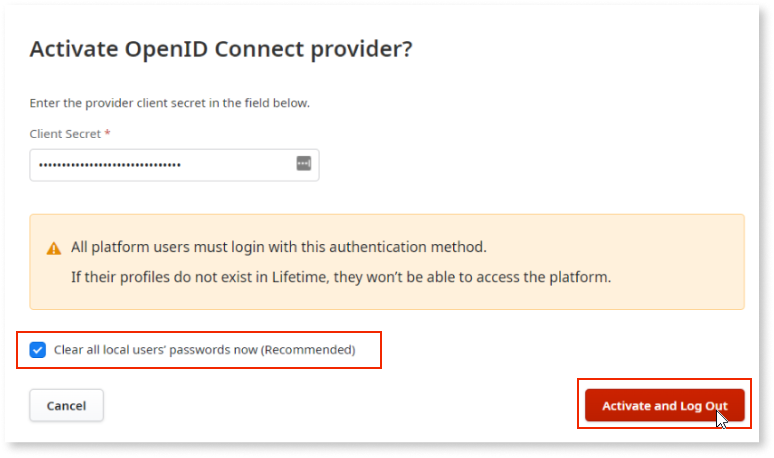
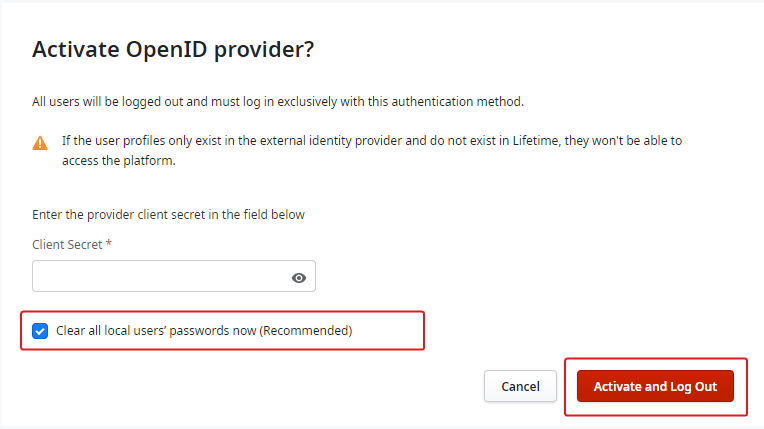
R11PST-266 update OIDC configuration in lifetime documentation-TK-12927

diff --git a/src/manage-platform-app-lifecycle/manage-it-teams/external-idp/external-idp-lifetime.md b/src/manage-platform-app-lifecycle/manage-it-teams/external-idp/external-idp-lifetime.md
@@ -28,13 +28,35 @@ To configure the external provider (OIDC) in LifeTime, follow these steps:
 
 1. Enter the following details according to the OIDC provider you are using:
 
-    1. **Name**: ID Provider
+    * **Name**: ID Provider
 
-    1. **Well-known Configuration URL**: OpenID Connect metadata document URI
+    * **Well-known Configuration URL**: OpenID Connect metadata document URI
 
-        You can validate the URL using the **Test configuration** link.
+        **Note**: Click the **Test** button to verify the well-known URL. This action will also add some recommended scopes required for OIDC connection in the future.
+
+   * **Client ID Type**: Select one of the following:
+
+        * Single Client ID for Desktop and Web tools
+
+        * Different Client ID for Desktop and Web tools
+
+            If you choose the **Use a different Client Ids for Desktop and Web tools** option, enter the following:
+
+            * **Client ID for Desktop tools**: Native Application’s Client ID
+           
+            * **Client ID for Web tools**: Web Application’s Client ID
+
+    * **Client ID**: Client ID for both desktop and web tools.
+        
+    * **Username Claim**: Claim used to match the username field of the user configured in LifeTime. By default, the claim is ``email``. For more information, see [Standard Claims](https://openid.net/specs/openid-connect-core-1_0.html#StandardClaims).
+
+        <div class="info" markdown="1">
+
+         For Azure and OKTA use ``preferred_username`` as the **Username Claim** value.
+
+         </div>
        
-    1. **Scopes**: Clicking the **Test** button after you enter the well-known configuration URL fetches all the scopes supported and enabled in the identity provider. The scopes are displayed on the **Configuration details** section. Any required scope for the user authentication process can be added and saved for the configuration.
+    * **Scopes**: Clicking the **Test** button after you enter the well-known configuration URL fetches all the scopes supported and enabled in the identity provider. The scopes are displayed on the **Configuration details** section. Any required scope for the user authentication process can be added and saved for the configuration.
   
           
        **Note:** Please follow these guidelines when selecting values for scopes:
@@ -48,7 +70,7 @@ To configure the external provider (OIDC) in LifeTime, follow these steps:
        Selecting values outside the provided list may result in errors or data inconsistencies.
        
         **Default Selected Scopes**:
-          By default, the following scopes are added for all identity providers and cannot be removed:
+          If the following scopes are supported by identity providers then they are added by default and cannot be removed:
        
         * openid
        
@@ -75,47 +97,23 @@ To configure the external provider (OIDC) in LifeTime, follow these steps:
          *   **AD FS**:
                     For AD FS, it is recommended to add the **allatclaims** scope. This scope requests the access token claims in the identity token.
 
-          **Note**: The recommended additional scopes mentioned above are not exhaustive, and users should consult their identity provider's documentation for specific scope requirements.
+        **Note**: The recommended additional scopes mentioned above are not exhaustive, and users should consult their identity provider's documentation for specific scope requirements.
+       
+        ![LifeTime authentication settings interface displaying scope configuration options for OpenID Connect](images/auth-settings-scope-lt.png "Configuring Scopes in Authentication Settings")
 
-     1. **Client ID Type**: Select one of the following:
+ 1. Click **Save Changes**.
 
-        * Single Client ID for Desktop and Web tools
-
-        * Different Client ID for Desktop and Web tools
-
-            If you choose the **Use a different Client Ids for Desktop and Web tools** option, enter the following:
-
-            * **Client ID for Desktop tools**: Native Application’s Client ID
-           
-            * **Client ID for Web tools**: Web Application’s Client ID
-
-    1. **Client ID**: Client ID for both desktop and web tools.
-        
-    1. **Username Claim**: Claim used to match the username field of the user configured in LifeTime. By default, the claim is ``email``. For more information, see [Standard Claims](https://openid.net/specs/openid-connect-core-1_0.html#StandardClaims).
-
-        <div class="info" markdown="1">
-
-         For Azure and OKTA use ``preferred_username`` as the **Username Claim** value.
-
-         </div>
-
-    ![LifeTime authentication settings interface displaying scope configuration options for OpenID Connect](images/auth-settings-scope-lt.png "Configuring Scopes in Authentication Settings")
-
-1. Click **Save Changes**.
-
-1. Click **Activate**.
+ 1. Click **Activate**.
 
     The **Activate OpenID Connect provider** pop-up is displayed. 
 
-    ![Activate OpenID Connect provider pop-up window in LifeTime](images/activate-openid-provider-lt.png "Activating OpenID Connect Provider")
+     * Enter the **Client Secret**.
 
-1. Enter the **Client Secret**.
+     * Select the **Clear all local user’s passwords now (Recommended)** checkbox.
 
-1. Select the **Clear all local user’s passwords now (Recommended)** checkbox.
+        For more information about clearing user’s passwords, see [Clearing built-in password credentials](#clearing-built-in-password-credentials).
 
-    For more information about clearing user’s passwords, see [Clearing built-in password credentials](#clearing-built-in-password-credentials).
-
-1. Click **Activate and Log Out**. 
+     * Click **Activate and Log Out**. 
 
     ![Log out confirmation dialog in LifeTime after activating OpenID Connect provider](images/log-out-lt.png "Log Out Confirmation")
 

diff --git a/src/manage-platform-app-lifecycle/manage-it-teams/external-idp/external-idp-azure.md b/src/manage-platform-app-lifecycle/manage-it-teams/external-idp/external-idp-azure.md
@@ -155,38 +155,6 @@ To configure Microsoft Azure AD authentication, follow these steps:
 
 1. Click **Add Permissions**.
 
-## Configure Azure AD as OutSystems' Identity Provider
+## Configure Azure AD as OpenId connect provider in LifeTime
 
-To finalize and activate the Azure AD configuration for IT users, follow these steps:
-
-1. Access the LifeTime console.
-
-1. Go to **User Management** > **Authentication Settings**, and click **Add OpenId Connect Provider**.
-
-1. Enter the following Azure AD details in the form:
-
-    1. **Name**: ID Provider (for example, Azure AD OIDC)
-
-    1. **Well-known Configuration URL**: OpenID Connect metadata document URI.
-
-        **Note** This URI can be found in the Azure Portal by navigating to the **Azure Active Directory** > **App Registrations** > **Endpoints**, and copying the **OpenID Connect metadata document** link.
-
-        ![Screenshot showing the OpenID Connect metadata document URI in the 'Endpoints' tab of an Azure AD application.](images/endpoint-az.png "Azure AD OpenID Connect Metadata Document URI")
-
-    1. **Client ID Type**: Select the option **Single Client ID for Desktop and Web tools**.
-
-    1. **Client ID**: Fill in with the **Application (client) ID** that is found in the Azure Portal's **Azure Active Directory** service and **Overview** tab.
-
-        ![Screenshot displaying the Application (client) ID in the 'Overview' tab of an Azure AD application.](images/app-client-id-az.png "Azure AD Application Client ID")
-
-    1. **Username Claim**: The claim used to match the username field of the user configured in LifeTime which will need to be  ``preferred_username`` for Azure AD. For more information about claims, see [Standard Claims](https://openid.net/specs/openid-connect-core-1_0.html#StandardClaims).
-
-1. Click **Save Changes**.
-
-1. Before making Azure AD the effective IdP, make sure to test the configuration and ensure that the Azure AD users have a corresponding user created in the OutSystems platform first.
-
-1. Click **Activate**.
-
-1. In the pop-up window that will appear, fill in the **Client Secret** stored earlier.
-
-1. Click the **Activate and Logout** button to start using Azure AD as the external Identity Provider of the OutSystems platform.
+Follow the steps mentioned [here](external-idp-lifetime.md).

diff --git a/src/manage-platform-app-lifecycle/manage-it-teams/external-idp/external-idp-okta.md b/src/manage-platform-app-lifecycle/manage-it-teams/external-idp/external-idp-okta.md
@@ -121,30 +121,6 @@ To configure Okta authentication, follow these steps:
 
     ![Screenshot showing the 'Client ID' for the OutSystems Development Tools application in Okta](images/client-id-ok.png "Client ID for OutSystems Development Tools")
 
-## Activate Okta configuration
+## Configure Okta as OpenId connect provider in LifeTime
 
-To finalize and activate the Okta configuration for both Consoles and Development Tools, follow these steps:
-
-1. Go to **Security** > **API**, and from the default **Authorization Servers** tab, click your authorization server name.
-
-    The server settings are displayed.
-
-    ![Screenshot of the Okta Authorization Server settings displaying the 'Metadata URI' link](images/metadata-ok.png "Okta Authorization Server Metadata") 
-
-1. Copy the **Metadata URI** link.
-
-    **Note**: You need this information when configuring the provider in LifeTime.
-
-1. To configure and activate the provider, follow the steps in the [LifeTime](#lifetime) section using the following details for the OIDC provider information:
-
-    1. Click the **Use a different Client Ids for Desktop and Web tools** link and add both Application IDs using the following details:
-
-        * **Name**: Okta
-
-        * **OpenID Connect metadata document**: Metadata URI
-
-        * **Client Id for Web tools**: OutSystems Consoles Client ID
-
-        * **Client Secret**: OutSystems Consoles Client Secret
-
-        * **Client Id for Desktop tools**: OutSystems Development Tools Client ID
+Follow the steps mentioned [here](external-idp-lifetime.md).

diff --git a/src/manage-platform-app-lifecycle/manage-it-teams/external-idp/external-idp-adfs.md b/src/manage-platform-app-lifecycle/manage-it-teams/external-idp/external-idp-adfs.md
@@ -131,15 +131,4 @@ You can find your AD FS server endpoints by going to **Windows Administrative To
 
 ## Configure AD FS as OpenId connect provider in LifeTime
 
-You can configure AD FS as an external IdP by navigating to **Lifetime** > **User Management** > **Authentication Settings** using the the following details for the OIDC provider information:
-
-* **Provider name**: Anything of choice
-* **Well-known Configuration URL**: ``https://<ADFShostname>/adfs/.well-known/openid-configuration``
-* **Client ID Type**: Different Client ID for Desktop and Web tools
-* **Client ID for Web tools**: Copied in step 4 of [Create a server app](#create-a-server-app)
-* **Client ID for Desktop tools**: Copied in step 5 of [Create a native app](#create-a-native-app)
-* **Username Claim**: email (or whatever has been configured at the time of setting up AD FS)
-* **Scopes**: Click the Test button next to the well-known configuration URl. It recommendeds scopes.
-* Click **Save Provider** then **Activate provider**. Enter the  client secret and select **Activate and Log Out**.
-
-    ![Screenshot of the AD FS configuration settings in the LifeTime platform](images/ad-fs-lt.png "AD FS Configuration in LifeTime")
+Follow the steps mentioned [here](external-idp-lifetime.md).

diff --git a/src/manage-platform-app-lifecycle/manage-it-teams/external-idp/external-idp-pingfederate.md b/src/manage-platform-app-lifecycle/manage-it-teams/external-idp/external-idp-pingfederate.md
@@ -104,17 +104,4 @@ For more information, refer to [Configuring an OAuth client](https://docs.pingid
 
 ## 11. Configure PingFederate as OpenID connect provider in Lifetime
 
-You can configure PingFederate as an external IdP by following thse steps:
-
-1. Navigating to **Lifetime**> **User Management** > **Authentication Settings** 
-1. Enter the details for the OIDC provider information:
-
-    * **Provider name**: Anything of choice
-    * **Well-known Configuration URL**: ``https://<PingFederateHostname>/.well-known/openid-configuration``
-    * **Client ID Type**: Different Client ID for Desktop and Web tools
-    * **Client ID for Web tools**: Web client ID
-    * **Client ID for Desktop tools**: Desktop client ID
-    * **Username Claim**: preferred_username
-    * **Scopes**: Click the **Test** button next to the well-known configuration URL. It adds recommended scopes.
-1. Click **Save Provider**, then **Activate Provider**. 
-1. Enter the client secret and click **Activate and Log Out**.
+Follow the steps mentioned [here](external-idp-lifetime.md).

diff --git a/src/manage-platform-app-lifecycle/manage-it-teams/external-idp/external-idp-errors.md b/src/manage-platform-app-lifecycle/manage-it-teams/external-idp/external-idp-errors.md
@@ -32,6 +32,9 @@ When proxy settings exist for some, but not all environments in the infrastructu
 
 You must ensure SS proxy configurations are up to date in the machine.config file. For instructions on how to (confiure the SS proxy configurations?? or to update them??), refer to the [this article.](https:https://learn.microsoft.com/en-us/dotnet/framework/configure-apps/file-schema/network/defaultproxy-element-network-settings)
 
+### 5. Authentication error in Service studio and Integration studio
+
+If the SS or IS log displays FailedToFetchServerIdentityTokens or FailedToRenewAccessToken error, please reconfigure the OIDC connection in Lifetime. Otherwise raise a support case if the issue persists.
 
 ## Both username/password and SSO login options are available
 
